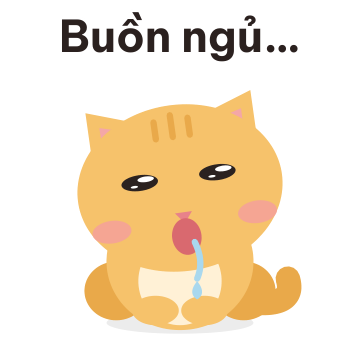
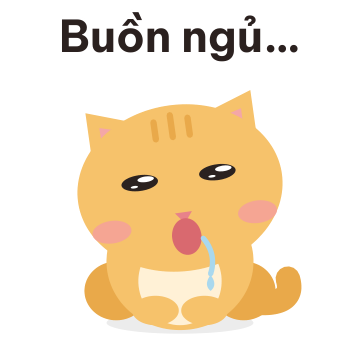
Buồn ngủ: the drool runs from the corner of the mouth, thin and with a small drop

Changed region(s): [[0.5194, 0.6417, 0.6111, 0.825]]

diff --git a/docs/plans/assets/stickers/build_stickers.py b/docs/plans/assets/stickers/build_stickers.py
@@ -463,7 +463,7 @@ STICKERS = [
     ("01", "Chào buổi sáng!", lambda: cat(STRETCH_S, LOOK["wake"]), dict(scale=2.8, dy=-14)),
     ("02", "Sướng quá~", lambda: cat(STAND_F, LOOK["purr"])),
     ("03", "Cuộc sống mà.", lounging, dict(scale=2.5, dx=2, dy=8)),
-    ("04", "Buồn ngủ…", lambda: cat(SIT_F, dict(LOOK["drowsy"], lid=0.34, roll=-8, dy=8, droop=0.4, mouth="yawn", cheek=0.8)) + '<path d="M66 82 Q70 90 67 97" fill="none" stroke="#a9d8ee" stroke-width="2.6" stroke-linecap="round"/><path d="M67 98 Q63 103 67 105.5 Q71 103 67 98Z" fill="#a9d8ee"/>'),
+    ("04", "Buồn ngủ…", lambda: cat(SIT_F, dict(LOOK["drowsy"], lid=0.34, roll=-8, dy=8, droop=0.4, mouth="yawn", cheek=0.8)) + '<path d="M69.5 80.5 Q75 87 72.5 95" fill="none" stroke="#a9d8ee" stroke-width="2.2" stroke-linecap="round"/><path d="M72.5 95.5 Q69.5 99.5 72.5 102 Q75.5 99.5 72.5 95.5Z" fill="#a9d8ee"/>'),
     ("05", "Hừm.", lambda: cat(SIT_F, dict(LOOK["rest"], lid=0.06, roll=15, dy=-2, gx=-7, mouth="flat", cheek=0.4)) + puffs() + stroke_path("M10 60 l7 3 M8 70 l9 1", "#b9a98f", 2)),
     ("06", "Quá sức mèo rồi.", lambda: cat(STAND_F, LOOK["sad"])),
     ("08", "Làm chung nhé?", lambda: cat(STAND_F, dict(LOOK["curious"], roll=12, wide=0.6, cheek=0.7)) + paw(25, 94, 9, 10.5, -40, True) + arcs("M11 82 q-6 6 -2 14", "M5 76 q-8 9 -3 20")),
